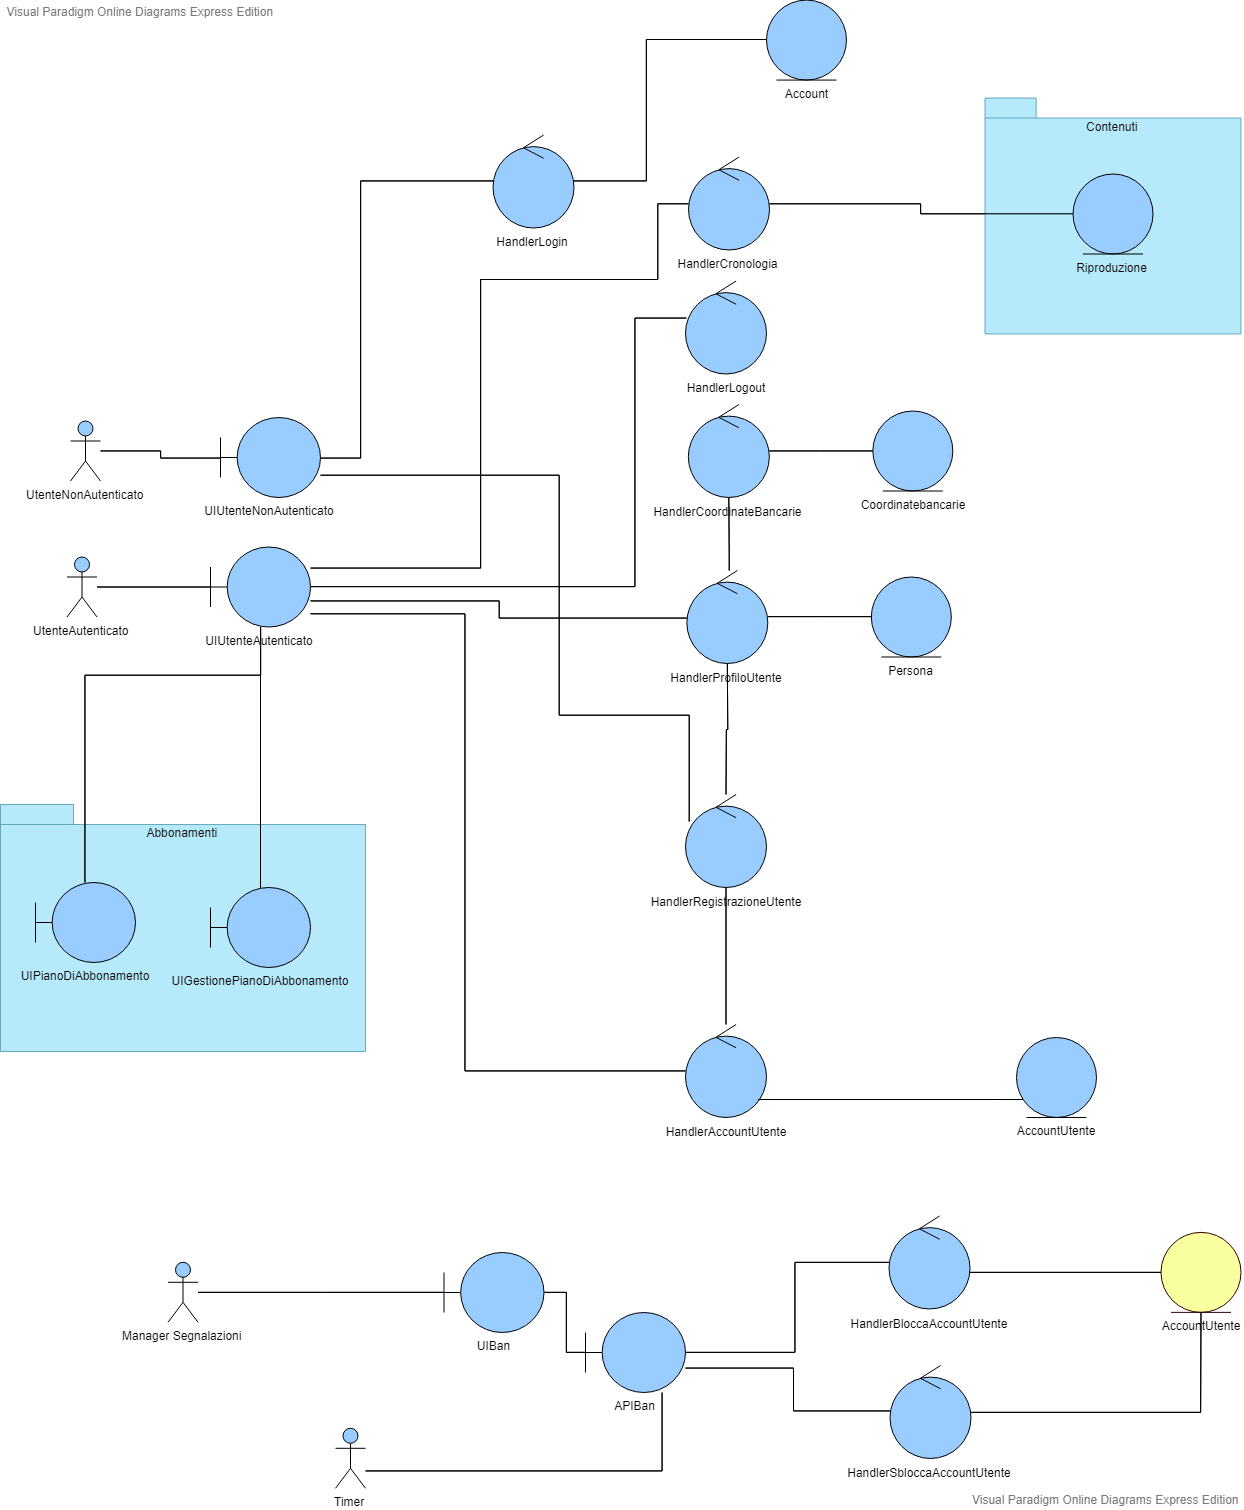
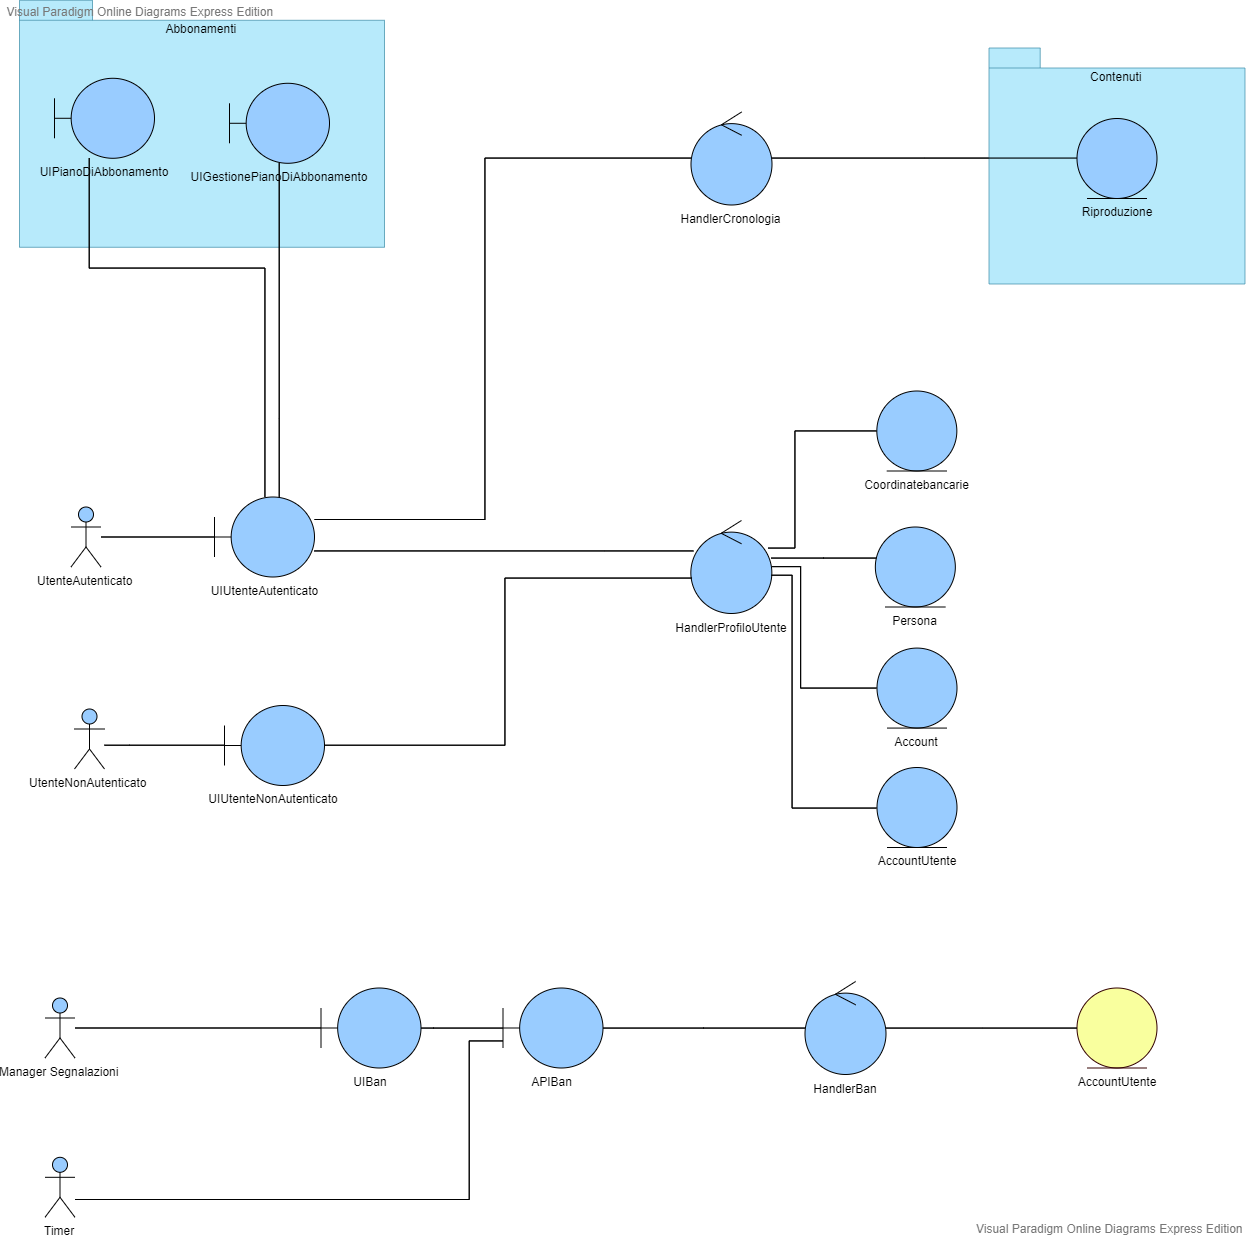
modificato ebc account

diff --git a/Contents/AnalisiSistema.bkp.tex b/Contents/AnalisiSistema.bkp.tex
@@ -495,9 +495,10 @@ Le basi per la scelta delle classi derivano principalente dall'anailisi dei requ
         Attributi & \multicolumn{3}{|p{9cm}|}{-} \\\hline
         \multicolumn{4}{|p{12cm}|}{Responsabilit\'a} \\\hline %%% RESPONSABILITA %%%
         \multicolumn{2}{|p{6cm}|}{Nome} & \multicolumn{2}{|p{6cm}|}{Collaboratore} \\\hline %%%%%%%
-        \multicolumn{2}{|p{6cm}|}{Permette la getione dell'utente e l'accesso} & \multicolumn{2}{|p{6cm}|}{HandlerProfiloUtente} \\\hline
+        \multicolumn{2}{|p{6cm}|}{Permette la modifica delle informazioni dell'utente} & \multicolumn{2}{|p{6cm}|}{HandlerProfiloUtente, HandlerAccountUtente} \\\hline
         \multicolumn{2}{|p{6cm}|}{Permette di gestire gli abbonamenti sottoscritti} & \multicolumn{2}{|p{6cm}|}{UIGestioneSottoscrizioneAbbonamento} \\\hline
         \multicolumn{2}{|p{6cm}|}{Permette la sottoscrizione di nuovi abbonamenti} & \multicolumn{2}{|p{6cm}|}{UIPianoDiAbbonamento} \\\hline
+        \multicolumn{2}{|p{6cm}|}{Permette di effettuare il login} & \multicolumn{2}{|p{6cm}|}{HandlerLogin} \\\hline
         \multicolumn{2}{|p{6cm}|}{Permette di visualizzare la cronologia} & \multicolumn{2}{|p{6cm}|}{HandlerCronologia} \\\hline
     \end{longtable}
 \end{center}
@@ -512,8 +513,8 @@ Le basi per la scelta delle classi derivano principalente dall'anailisi dei requ
         Attributi & \multicolumn{3}{|p{9cm}|}{-} \\\hline
         \multicolumn{4}{|p{12cm}|}{Responsabilit\'a} \\\hline %%% RESPONSABILITA %%%
         \multicolumn{2}{|p{6cm}|}{Nome} & \multicolumn{2}{|p{6cm}|}{Collaboratore} \\\hline %%%%%%%
-        \multicolumn{2}{|p{6cm}|}{Permette il logout dalla piattaforma} & \multicolumn{2}{|p{6cm}|}{HandlerProfiloUtente} \\\hline
-        \multicolumn{2}{|p{6cm}|}{Permette la registrazione di nuovi utenti} & \multicolumn{2}{|p{6cm}|}{HandlerProfiloUtente} \\\hline
+        \multicolumn{2}{|p{6cm}|}{Permette il logout dalla piattaforma} & \multicolumn{2}{|p{6cm}|}{HandlerLogout} \\\hline
+        \multicolumn{2}{|p{6cm}|}{Permette la registrazione di nuovi utenti} & \multicolumn{2}{|p{6cm}|}{HandlerRegistrazioneUtente} \\\hline
         
     \end{longtable}
 \end{center}
@@ -588,7 +589,8 @@ Le basi per la scelta delle classi derivano principalente dall'anailisi dei requ
         Attributi & \multicolumn{3}{|p{9cm}|}{-} \\\hline
         \multicolumn{4}{|p{12cm}|}{Responsabilit\'a} \\\hline %%% RESPONSABILITA %%%
         \multicolumn{2}{|p{6cm}|}{Nome} & \multicolumn{2}{|p{6cm}|}{Collaboratore} \\\hline %%%%%%%
-        \multicolumn{2}{|p{6cm}|}{permette di bloccare e sbloccare un utente} & \multicolumn{2}{|p{6cm}|}{HandlerBan} \\\hline        
+        \multicolumn{2}{|p{6cm}|}{sbloccare un utente bloccato} & \multicolumn{2}{|p{6cm}|}{HandlerSbloccaAccountUtente} \\\hline        
+        \multicolumn{2}{|p{6cm}|}{bloccare un utente} & \multicolumn{2}{|p{6cm}|}{HandlerBloccaAccountUtente} \\\hline        
     \end{longtable}
 \end{center}
 
@@ -606,48 +608,48 @@ Le basi per la scelta delle classi derivano principalente dall'anailisi dei requ
         \end{longtable}
 \end{center}
 
-% \begin{center} % HANDLER %
-%     \begin{longtable}{ |p{3cm}|p{3cm}|p{3cm}|p{3cm}| }
-%         \hline
-%         Nome & \multicolumn{3}{|p{9cm}|}{HandlerLogout} \\\hline
-%         Descrizione & \multicolumn{3}{|p{9cm}|}{gestisce le operazioni per l'accesso e la disconnessione degli utenti} \\\hline
-%         SuperClassi & \multicolumn{3}{|p{9cm}|}{-} \\\hline
-%         SottoClassi & \multicolumn{3}{|p{9cm}|}{-} \\\hline
-%         Attributi & \multicolumn{3}{|p{9cm}|}{-} \\\hline
-%         \multicolumn{4}{|p{12cm}|}{Responsabilit\'a} \\\hline %%% RESPONSABILITA %%%
-%         \multicolumn{2}{|p{6cm}|}{Nome} & \multicolumn{2}{|p{6cm}|}{Collaboratore} \\\hline %%%%%%%
-%         \multicolumn{2}{|p{6cm}|}{effettua logout} & \multicolumn{2}{|p{6cm}|}{-} \\\hline
-%         \end{longtable}
-% \end{center}
+\begin{center} % HANDLER %
+    \begin{longtable}{ |p{3cm}|p{3cm}|p{3cm}|p{3cm}| }
+        \hline
+        Nome & \multicolumn{3}{|p{9cm}|}{HandlerLogout} \\\hline
+        Descrizione & \multicolumn{3}{|p{9cm}|}{gestisce le operazioni per l'accesso e la disconnessione degli utenti} \\\hline
+        SuperClassi & \multicolumn{3}{|p{9cm}|}{-} \\\hline
+        SottoClassi & \multicolumn{3}{|p{9cm}|}{-} \\\hline
+        Attributi & \multicolumn{3}{|p{9cm}|}{-} \\\hline
+        \multicolumn{4}{|p{12cm}|}{Responsabilit\'a} \\\hline %%% RESPONSABILITA %%%
+        \multicolumn{2}{|p{6cm}|}{Nome} & \multicolumn{2}{|p{6cm}|}{Collaboratore} \\\hline %%%%%%%
+        \multicolumn{2}{|p{6cm}|}{effettua logout} & \multicolumn{2}{|p{6cm}|}{-} \\\hline
+        \end{longtable}
+\end{center}
 
-% \begin{center} % HANDLER %
-%     \begin{longtable}{ |p{3cm}|p{3cm}|p{3cm}|p{3cm}| }
-%         \hline
-%         Nome & \multicolumn{3}{|p{9cm}|}{HandlerLogin} \\\hline
-%         Descrizione & \multicolumn{3}{|p{9cm}|}{gestisce le operazioni per l'accesso e la disconnessione degli utenti} \\\hline
-%         SuperClassi & \multicolumn{3}{|p{9cm}|}{-} \\\hline
-%         SottoClassi & \multicolumn{3}{|p{9cm}|}{-} \\\hline
-%         Attributi & \multicolumn{3}{|p{9cm}|}{-} \\\hline
-%         \multicolumn{4}{|p{12cm}|}{Responsabilit\'a} \\\hline %%% RESPONSABILITA %%%
-%         \multicolumn{2}{|p{6cm}|}{Nome} & \multicolumn{2}{|p{6cm}|}{Collaboratore} \\\hline %%%%%%%
-%         \multicolumn{2}{|p{6cm}|}{valida credenziali} & \multicolumn{2}{|p{6cm}|}{Account} \\\hline
-%         \multicolumn{2}{|p{6cm}|}{effettua login} & \multicolumn{2}{|p{6cm}|}{Account} \\\hline
-%         \end{longtable}
-% \end{center}
+\begin{center} % HANDLER %
+    \begin{longtable}{ |p{3cm}|p{3cm}|p{3cm}|p{3cm}| }
+        \hline
+        Nome & \multicolumn{3}{|p{9cm}|}{HandlerLogin} \\\hline
+        Descrizione & \multicolumn{3}{|p{9cm}|}{gestisce le operazioni per l'accesso e la disconnessione degli utenti} \\\hline
+        SuperClassi & \multicolumn{3}{|p{9cm}|}{-} \\\hline
+        SottoClassi & \multicolumn{3}{|p{9cm}|}{-} \\\hline
+        Attributi & \multicolumn{3}{|p{9cm}|}{-} \\\hline
+        \multicolumn{4}{|p{12cm}|}{Responsabilit\'a} \\\hline %%% RESPONSABILITA %%%
+        \multicolumn{2}{|p{6cm}|}{Nome} & \multicolumn{2}{|p{6cm}|}{Collaboratore} \\\hline %%%%%%%
+        \multicolumn{2}{|p{6cm}|}{valida credenziali} & \multicolumn{2}{|p{6cm}|}{Account} \\\hline
+        \multicolumn{2}{|p{6cm}|}{effettua login} & \multicolumn{2}{|p{6cm}|}{Account} \\\hline
+        \end{longtable}
+\end{center}
 
-% \begin{center} % HANDLER %
-%     \begin{longtable}{ |p{3cm}|p{3cm}|p{3cm}|p{3cm}| }
-%         \hline
-%         Nome & \multicolumn{3}{|p{9cm}|}{HandlerCoordinateBancarie} \\\hline
-%         Descrizione & \multicolumn{3}{|p{9cm}|}{gestisce le coordinate bancarie degli utenti} \\\hline
-%         SuperClassi & \multicolumn{3}{|p{9cm}|}{-} \\\hline
-%         SottoClassi & \multicolumn{3}{|p{9cm}|}{-} \\\hline
-%         Attributi & \multicolumn{3}{|p{9cm}|}{-} \\\hline
-%         \multicolumn{4}{|p{12cm}|}{Responsabilit\'a} \\\hline %%% RESPONSABILITA %%%
-%         \multicolumn{2}{|p{6cm}|}{Nome} & \multicolumn{2}{|p{6cm}|}{Collaboratore} \\\hline %%%%%%%
-%         \multicolumn{2}{|p{6cm}|}{gestisce l'inserimento, modifica e eliminazione delle coordinate} & \multicolumn{2}{|p{6cm}|}{CoordinateBancarie} \\\hline
-%         \end{longtable}
-% \end{center}
+\begin{center} % HANDLER %
+    \begin{longtable}{ |p{3cm}|p{3cm}|p{3cm}|p{3cm}| }
+        \hline
+        Nome & \multicolumn{3}{|p{9cm}|}{HandlerCoordinateBancarie} \\\hline
+        Descrizione & \multicolumn{3}{|p{9cm}|}{gestisce le coordinate bancarie degli utenti} \\\hline
+        SuperClassi & \multicolumn{3}{|p{9cm}|}{-} \\\hline
+        SottoClassi & \multicolumn{3}{|p{9cm}|}{-} \\\hline
+        Attributi & \multicolumn{3}{|p{9cm}|}{-} \\\hline
+        \multicolumn{4}{|p{12cm}|}{Responsabilit\'a} \\\hline %%% RESPONSABILITA %%%
+        \multicolumn{2}{|p{6cm}|}{Nome} & \multicolumn{2}{|p{6cm}|}{Collaboratore} \\\hline %%%%%%%
+        \multicolumn{2}{|p{6cm}|}{gestisce l'inserimento, modifica e eliminazione delle coordinate} & \multicolumn{2}{|p{6cm}|}{CoordinateBancarie} \\\hline
+        \end{longtable}
+\end{center}
 
 \begin{center} % HANDLER %
     \begin{longtable}{ |p{3cm}|p{3cm}|p{3cm}|p{3cm}| }
@@ -660,46 +662,43 @@ Le basi per la scelta delle classi derivano principalente dall'anailisi dei requ
         \multicolumn{4}{|p{12cm}|}{Responsabilit\'a} \\\hline %%% RESPONSABILITA %%%
         \multicolumn{2}{|p{6cm}|}{Nome} & \multicolumn{2}{|p{6cm}|}{Collaboratore} \\\hline %%%%%%%
         \multicolumn{2}{|p{6cm}|}{modifica anagrafica} & \multicolumn{2}{|p{6cm}|}{Persona} \\\hline
-        \multicolumn{2}{|p{6cm}|}{gestisci dati fatturazione} & \multicolumn{2}{|p{6cm}|}{Coordinatebancarie,Persona} \\\hline
-        \multicolumn{2}{|p{6cm}|}{gestisci dati pagamento} & \multicolumn{2}{|p{6cm}|}{CoordinateBancarie, Persona} \\\hline
-        \multicolumn{2}{|p{6cm}|}{modifica preferenze bancarie} & \multicolumn{2}{|p{6cm}|}{CoordinateBancarie,Persona} \\\hline
-        \multicolumn{2}{|p{6cm}|}{registrazione nuovi utenti} & \multicolumn{2}{|p{6cm}|}{Persona} \\\hline
-        \multicolumn{2}{|p{6cm}|}{valida credenziali} & \multicolumn{2}{|p{6cm}|}{Account} \\\hline
-        \multicolumn{2}{|p{6cm}|}{effettua login} & \multicolumn{2}{|p{6cm}|}{Account} \\\hline
-        \multicolumn{2}{|p{6cm}|}{effettua logout} & \multicolumn{2}{|p{6cm}|}{-} \\\hline
+        \multicolumn{2}{|p{6cm}|}{gestisci dati fatturazione} & \multicolumn{2}{|p{6cm}|}{Persona, HandlerCoordinateBancarie} \\\hline
+        \multicolumn{2}{|p{6cm}|}{gestisci dati pagamento} & \multicolumn{2}{|p{6cm}|}{Persona, HandlerCoordinateBancarie} \\\hline
+        \multicolumn{2}{|p{6cm}|}{modifica preferenze bancarie} & \multicolumn{2}{|p{6cm}|}{Persona} \\\hline
+        \multicolumn{2}{|p{6cm}|}{crea un profilo utente} & \multicolumn{2}{|p{6cm}|}{Persona} \\\hline
     \end{longtable}
 \end{center}
 
-% \begin{center} % HANDLER %
-%     \begin{longtable}{ |p{3cm}|p{3cm}|p{3cm}|p{3cm}| }
-%         \hline
-%         Nome & \multicolumn{3}{|p{9cm}|}{HandlerRegistrazioneUtente} \\\hline
-%         Descrizione & \multicolumn{3}{|p{9cm}|}{Gestisce le operazioni sul profilo utente} \\\hline
-%         SuperClassi & \multicolumn{3}{|p{9cm}|}{-} \\\hline
-%         SottoClassi & \multicolumn{3}{|p{9cm}|}{-} \\\hline
-%         Attributi & \multicolumn{3}{|p{9cm}|}{-} \\\hline
-%         \multicolumn{4}{|p{12cm}|}{Responsabilit\'a} \\\hline %%% RESPONSABILITA %%%
-%         \multicolumn{2}{|p{6cm}|}{Nome} & \multicolumn{2}{|p{6cm}|}{Collaboratore} \\\hline %%%%%%%
-%         \multicolumn{2}{|p{6cm}|}{creazione dell'anagrafica} & \multicolumn{2}{|p{6cm}|}{HandlerProfiloUtente} \\\hline
-%         \multicolumn{2}{|p{6cm}|}{creazione dell'account} & \multicolumn{2}{|p{6cm}|}{HandlerAccountUtente} \\\hline
+\begin{center} % HANDLER %
+    \begin{longtable}{ |p{3cm}|p{3cm}|p{3cm}|p{3cm}| }
+        \hline
+        Nome & \multicolumn{3}{|p{9cm}|}{HandlerRegistrazioneUtente} \\\hline
+        Descrizione & \multicolumn{3}{|p{9cm}|}{Gestisce le operazioni sul profilo utente} \\\hline
+        SuperClassi & \multicolumn{3}{|p{9cm}|}{-} \\\hline
+        SottoClassi & \multicolumn{3}{|p{9cm}|}{-} \\\hline
+        Attributi & \multicolumn{3}{|p{9cm}|}{-} \\\hline
+        \multicolumn{4}{|p{12cm}|}{Responsabilit\'a} \\\hline %%% RESPONSABILITA %%%
+        \multicolumn{2}{|p{6cm}|}{Nome} & \multicolumn{2}{|p{6cm}|}{Collaboratore} \\\hline %%%%%%%
+        \multicolumn{2}{|p{6cm}|}{creazione dell'anagrafica} & \multicolumn{2}{|p{6cm}|}{HandlerProfiloUtente} \\\hline
+        \multicolumn{2}{|p{6cm}|}{creazione dell'account} & \multicolumn{2}{|p{6cm}|}{HandlerAccountUtente} \\\hline
         
-%     \end{longtable}
-% \end{center}
+    \end{longtable}
+\end{center}
 
-% \begin{center} % HANDLER %
-%     \begin{longtable}{ |p{3cm}|p{3cm}|p{3cm}|p{3cm}| }
-%         \hline
-%         Nome & \multicolumn{3}{|p{9cm}|}{HandlerAccountUtente} \\\hline
-%         Descrizione & \multicolumn{3}{|p{9cm}|}{gestisce le operazioni effettuabili su un account utente} \\\hline
-%         SuperClassi & \multicolumn{3}{|p{9cm}|}{-} \\\hline
-%         SottoClassi & \multicolumn{3}{|p{9cm}|}{-} \\\hline
-%         Attributi & \multicolumn{3}{|p{9cm}|}{-} \\\hline
-%         \multicolumn{4}{|p{12cm}|}{Responsabilit\'a} \\\hline %%% RESPONSABILITA %%%
-%         \multicolumn{2}{|p{6cm}|}{Nome} & \multicolumn{2}{|p{6cm}|}{Collaboratore} \\\hline %%%%%%%
-%         \multicolumn{2}{|p{6cm}|}{creazione di un account utente} & \multicolumn{2}{|p{6cm}|}{AccountUtente} \\\hline
-%         \multicolumn{2}{|p{6cm}|}{modifica di email, email di recupero e password} & \multicolumn{2}{|p{6cm}|}{AccountUtente} \\\hline
-%     \end{longtable}
-% \end{center}
+\begin{center} % HANDLER %
+    \begin{longtable}{ |p{3cm}|p{3cm}|p{3cm}|p{3cm}| }
+        \hline
+        Nome & \multicolumn{3}{|p{9cm}|}{HandlerAccountUtente} \\\hline
+        Descrizione & \multicolumn{3}{|p{9cm}|}{gestisce le operazioni effettuabili su un account utente} \\\hline
+        SuperClassi & \multicolumn{3}{|p{9cm}|}{-} \\\hline
+        SottoClassi & \multicolumn{3}{|p{9cm}|}{-} \\\hline
+        Attributi & \multicolumn{3}{|p{9cm}|}{-} \\\hline
+        \multicolumn{4}{|p{12cm}|}{Responsabilit\'a} \\\hline %%% RESPONSABILITA %%%
+        \multicolumn{2}{|p{6cm}|}{Nome} & \multicolumn{2}{|p{6cm}|}{Collaboratore} \\\hline %%%%%%%
+        \multicolumn{2}{|p{6cm}|}{creazione di un account utente} & \multicolumn{2}{|p{6cm}|}{AccountUtente} \\\hline
+        \multicolumn{2}{|p{6cm}|}{modifica di email, email di recupero e password} & \multicolumn{2}{|p{6cm}|}{AccountUtente} \\\hline
+    \end{longtable}
+\end{center}
 
 % \begin{center} % HANDLER %
 %     \begin{longtable}{ |p{3cm}|p{3cm}|p{3cm}|p{3cm}| }
@@ -759,45 +758,31 @@ Le basi per la scelta delle classi derivano principalente dall'anailisi dei requ
 %     \end{longtable}
 % \end{center}
 
-% \begin{center} % HANDLER %
-%     \begin{longtable}{ |p{3cm}|p{3cm}|p{3cm}|p{3cm}| }
-%         \hline
-%         Nome & \multicolumn{3}{|p{9cm}|}{HandlerBloccaAccountUtente} \\\hline
-%         Descrizione & \multicolumn{3}{|p{9cm}|}{gestisce le operazioni sugli utenti bloccati} \\\hline
-%         SuperClassi & \multicolumn{3}{|p{9cm}|}{-} \\\hline
-%         SottoClassi & \multicolumn{3}{|p{9cm}|}{-} \\\hline
-%         Attributi & \multicolumn{3}{|p{9cm}|}{-} \\\hline
-%         \multicolumn{4}{|p{12cm}|}{Responsabilit\'a} \\\hline %%% RESPONSABILITA %%%
-%         \multicolumn{2}{|p{6cm}|}{Nome} & \multicolumn{2}{|p{6cm}|}{Collaboratore} \\\hline %%%%%%%
-%         \multicolumn{2}{|p{6cm}|}{sospendi account utente} & \multicolumn{2}{|p{6cm}|}{AccountUtente} \\\hline
-%     \end{longtable}
-% \end{center}
-
-% \begin{center} % HANDLER %
-%     \begin{longtable}{ |p{3cm}|p{3cm}|p{3cm}|p{3cm}| }
-%         \hline
-%         Nome & \multicolumn{3}{|p{9cm}|}{HandlerSbloccaAccountUtente} \\\hline
-%         Descrizione & \multicolumn{3}{|p{9cm}|}{gestisce le operazioni sugli utenti bloccati} \\\hline
-%         SuperClassi & \multicolumn{3}{|p{9cm}|}{-} \\\hline
-%         SottoClassi & \multicolumn{3}{|p{9cm}|}{-} \\\hline
-%         Attributi & \multicolumn{3}{|p{9cm}|}{-} \\\hline
-%         \multicolumn{4}{|p{12cm}|}{Responsabilit\'a} \\\hline %%% RESPONSABILITA %%%
-%         \multicolumn{2}{|p{6cm}|}{Nome} & \multicolumn{2}{|p{6cm}|}{Collaboratore} \\\hline %%%%%%%
-%         \multicolumn{2}{|p{6cm}|}{riattiva account utente} & \multicolumn{2}{|p{6cm}|}{AccountUtente} \\\hline
-%     \end{longtable}
-% \end{center}
-
 \begin{center} % HANDLER %
     \begin{longtable}{ |p{3cm}|p{3cm}|p{3cm}|p{3cm}| }
         \hline
-        Nome & \multicolumn{3}{|p{9cm}|}{HandlerBan} \\\hline
-        Descrizione & \multicolumn{3}{|p{9cm}|}{gestisce le operazioni di ban sugli utenti} \\\hline
+        Nome & \multicolumn{3}{|p{9cm}|}{HandlerBloccaAccountUtente} \\\hline
+        Descrizione & \multicolumn{3}{|p{9cm}|}{gestisce le operazioni sugli utenti bloccati} \\\hline
         SuperClassi & \multicolumn{3}{|p{9cm}|}{-} \\\hline
         SottoClassi & \multicolumn{3}{|p{9cm}|}{-} \\\hline
         Attributi & \multicolumn{3}{|p{9cm}|}{-} \\\hline
         \multicolumn{4}{|p{12cm}|}{Responsabilit\'a} \\\hline %%% RESPONSABILITA %%%
         \multicolumn{2}{|p{6cm}|}{Nome} & \multicolumn{2}{|p{6cm}|}{Collaboratore} \\\hline %%%%%%%
-        \multicolumn{2}{|p{6cm}|}{blocca e sblocca account utente} & \multicolumn{2}{|p{6cm}|}{AccountUtente} \\\hline
+        \multicolumn{2}{|p{6cm}|}{sospendi account utente} & \multicolumn{2}{|p{6cm}|}{AccountUtente} \\\hline
+    \end{longtable}
+\end{center}
+
+\begin{center} % HANDLER %
+    \begin{longtable}{ |p{3cm}|p{3cm}|p{3cm}|p{3cm}| }
+        \hline
+        Nome & \multicolumn{3}{|p{9cm}|}{HandlerSbloccaAccountUtente} \\\hline
+        Descrizione & \multicolumn{3}{|p{9cm}|}{gestisce le operazioni sugli utenti bloccati} \\\hline
+        SuperClassi & \multicolumn{3}{|p{9cm}|}{-} \\\hline
+        SottoClassi & \multicolumn{3}{|p{9cm}|}{-} \\\hline
+        Attributi & \multicolumn{3}{|p{9cm}|}{-} \\\hline
+        \multicolumn{4}{|p{12cm}|}{Responsabilit\'a} \\\hline %%% RESPONSABILITA %%%
+        \multicolumn{2}{|p{6cm}|}{Nome} & \multicolumn{2}{|p{6cm}|}{Collaboratore} \\\hline %%%%%%%
+        \multicolumn{2}{|p{6cm}|}{riattiva account utente} & \multicolumn{2}{|p{6cm}|}{AccountUtente} \\\hline
     \end{longtable}
 \end{center}
 
